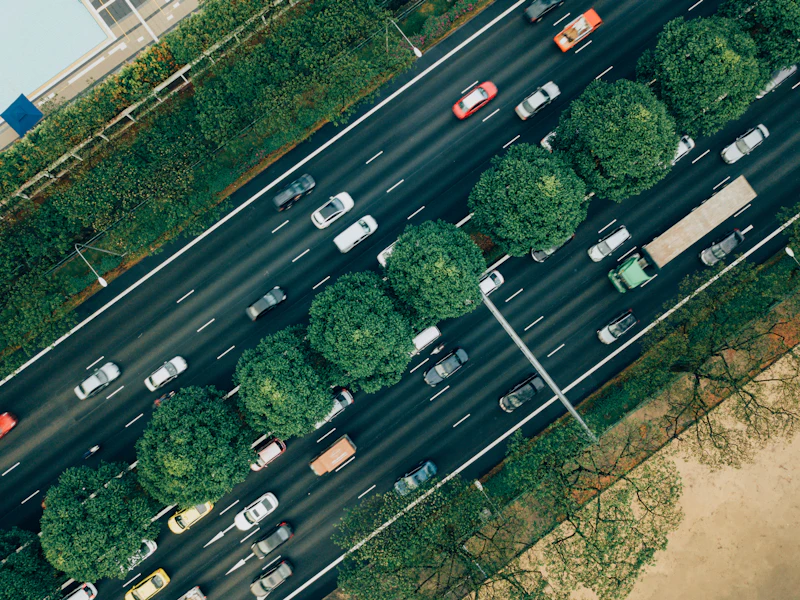
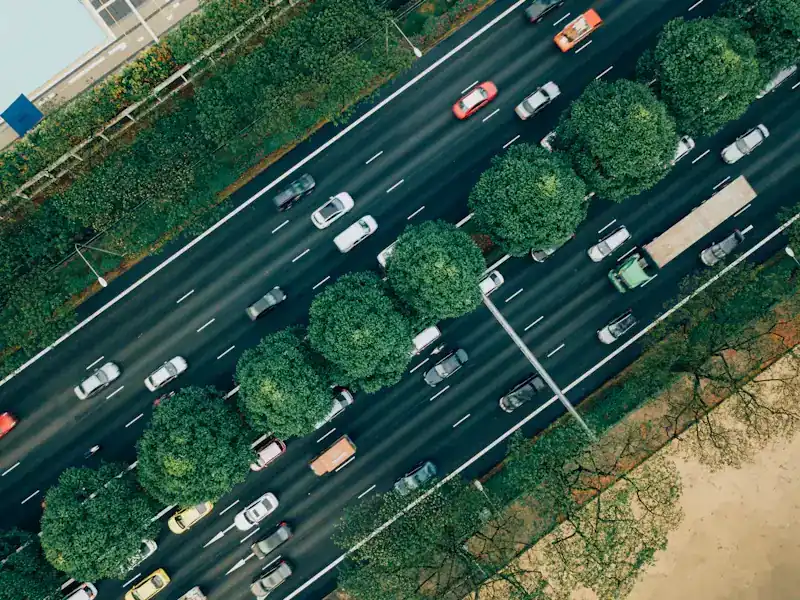
Zdjęcia w nagłówkach z własnego serwera (WebP, wersja 800 px na telefon)
Claude-Session: https://claude.ai/code/session_01UKJxVuBLvBxf2NxkcMFWCy

diff --git a/config/zdjecia.ts b/config/zdjecia.ts
@@ -5,21 +5,25 @@
 
 export interface Zdjecie {
   src: string;
+  /** mniejsza wersja (800 px) dla telefonów */
+  srcMaly?: string;
   alt: string;
   autor: string;
 }
 
-const unsplash = (id: string, szer = 1600) => `https://images.unsplash.com/${id}?auto=format&fit=crop&w=${szer}&q=70`;
+// Pliki leżą na naszym serwerze (public/zdjecia/) – szybciej niż z cudzego serwera i lepiej dla PageSpeed Insights.
+// Pobrał je automat .github/workflows/pobierz-zdjecia.yml (zdjęcia z Unsplash), potem zostały przycięte i skompresowane do WebP.
+const lokalne = (klucz: string) => ({ src: `/zdjecia/${klucz}.webp`, srcMaly: `/zdjecia/${klucz}-800.webp` });
 
 export const ZDJECIA = {
-  glowne: { src: unsplash('photo-1551952237-954a0e68786c', 2000), alt: 'Samochód na pustej drodze', autor: 'Raivis Razgals / Unsplash' },
-  kupujesz: { src: unsplash('photo-1574023240744-64c47c8c0676'), alt: 'Rząd zaparkowanych samochodów', autor: 'Erik Mclean / Unsplash' },
-  trasa: { src: unsplash('photo-1516319915504-015b432d407c'), alt: 'Autostrada nocą – smugi świateł samochodów', autor: 'Florian Steciuk / Unsplash' },
-  elektryki: { src: unsplash('photo-1593941707882-a5bba14938c7'), alt: 'Ładowanie samochodu elektrycznego', autor: 'CHUTTERSNAP / Unsplash' },
-  mandaty: { src: unsplash('photo-1603638725730-233a04d9dca4'), alt: 'Samochody na drodze nocą', autor: 'Brecht Denil / Unsplash' },
-  atlas: { src: unsplash('photo-1521706887145-1c0edacadb25'), alt: 'Samochody na ruchliwej drodze', autor: 'CHUTTERSNAP / Unsplash' },
-  filmy: { src: unsplash('photo-1568605117036-5fe5e7bab0b7'), alt: 'Srebrne coupe na asfaltowej drodze', autor: 'Erik Mclean / Unsplash' },
-  opony: { src: unsplash('photo-1578844251758-2f71da64c96f'), alt: 'Stosy opon samochodowych', autor: 'Robert Laursoo / Unsplash' }
+  glowne: { ...lokalne('glowne'), alt: 'Samochód na pustej drodze', autor: 'Raivis Razgals / Unsplash' },
+  kupujesz: { ...lokalne('kupujesz'), alt: 'Rząd zaparkowanych samochodów', autor: 'Erik Mclean / Unsplash' },
+  trasa: { ...lokalne('trasa'), alt: 'Autostrada nocą – smugi świateł samochodów', autor: 'Florian Steciuk / Unsplash' },
+  elektryki: { ...lokalne('elektryki'), alt: 'Ładowanie samochodu elektrycznego', autor: 'CHUTTERSNAP / Unsplash' },
+  mandaty: { ...lokalne('mandaty'), alt: 'Samochody na drodze nocą', autor: 'Brecht Denil / Unsplash' },
+  atlas: { ...lokalne('atlas'), alt: 'Samochody na ruchliwej drodze', autor: 'CHUTTERSNAP / Unsplash' },
+  filmy: { ...lokalne('filmy'), alt: 'Srebrne coupe na asfaltowej drodze', autor: 'Erik Mclean / Unsplash' },
+  opony: { ...lokalne('opony'), alt: 'Stosy opon samochodowych', autor: 'Robert Laursoo / Unsplash' }
 } satisfies Record<string, Zdjecie>;
 
 export type KluczZdjecia = keyof typeof ZDJECIA;

diff --git a/components/ZdjecieTla.tsx b/components/ZdjecieTla.tsx
@@ -12,12 +12,13 @@ export default function ZdjecieTla({ klucz, priorytet = false, className = '' }:
     // eslint-disable-next-line @next/next/no-img-element
     <img
       src={z.src}
+      srcSet={z.srcMaly ? `${z.srcMaly} 800w, ${z.src} 1600w` : undefined}
+      sizes="100vw"
       alt=""
       aria-hidden="true"
       loading={priorytet ? 'eager' : 'lazy'}
       fetchPriority={priorytet ? 'high' : 'auto'}
       decoding="async"
-      referrerPolicy="no-referrer"
       onError={() => setBlad(true)}
       className={`absolute inset-0 w-full h-full object-cover ${className}`}
     />
